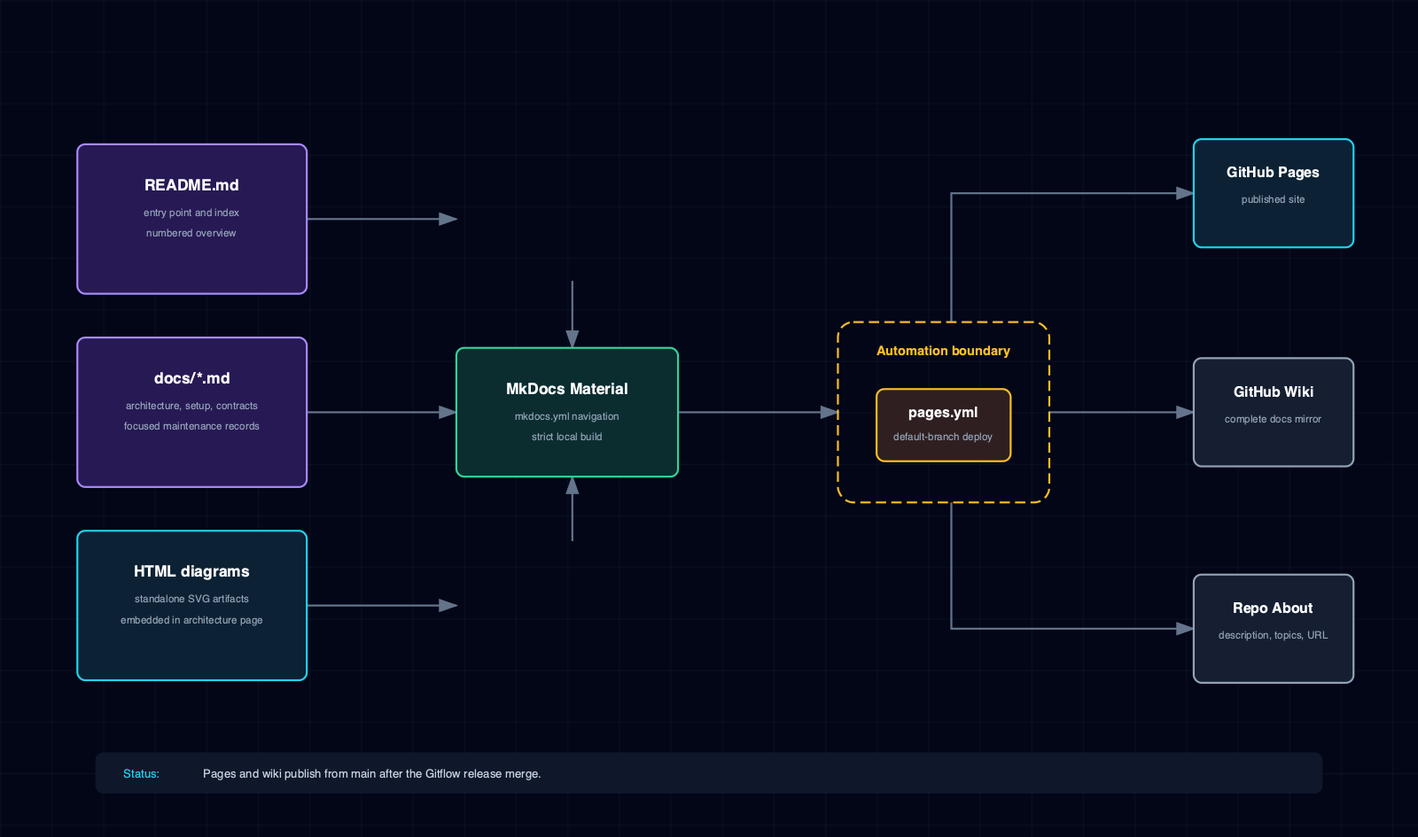
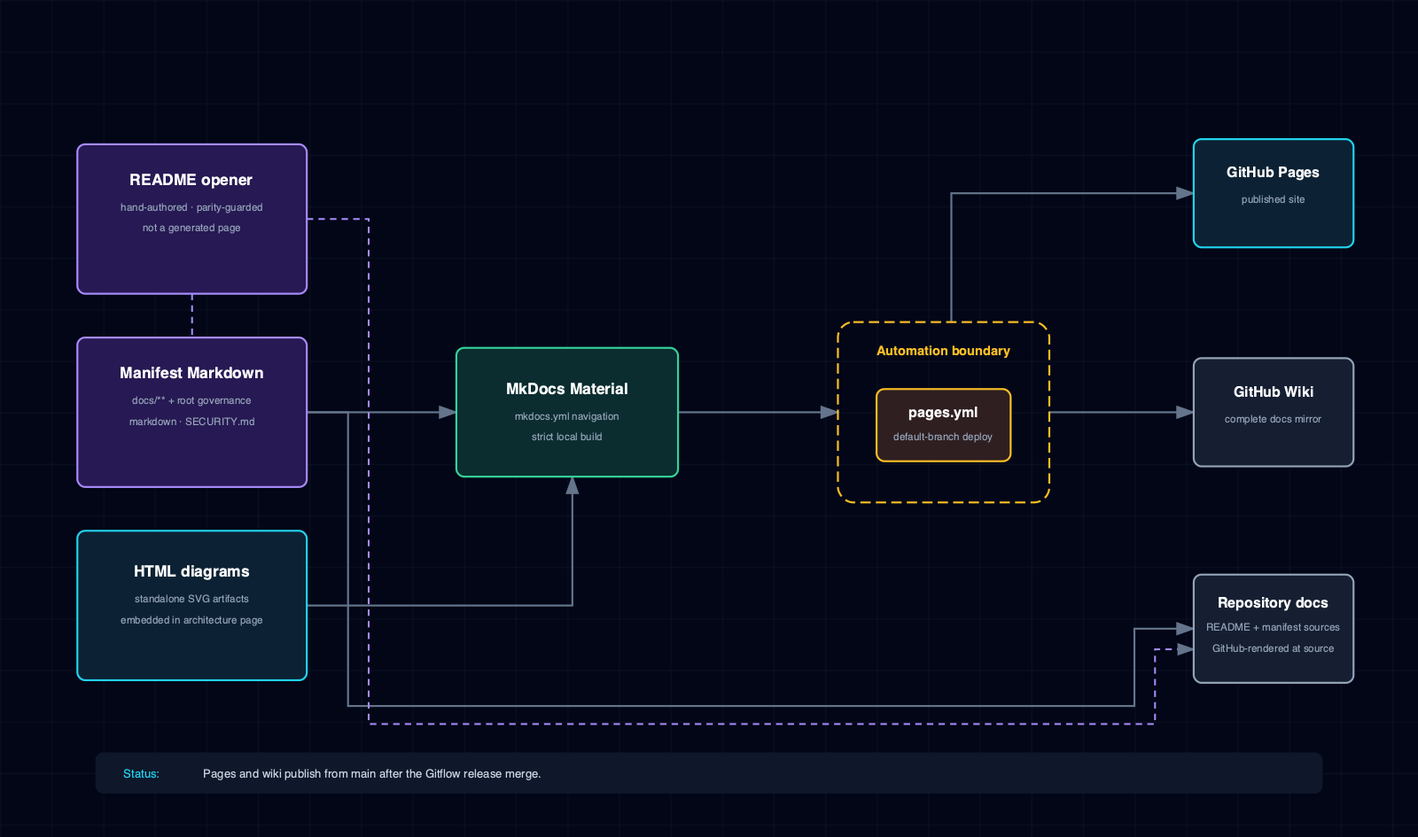
docs: align security policy architecture

diff --git a/docs/diagrams/ml-eng-lab-docs-sync.html b/docs/diagrams/ml-eng-lab-docs-sync.html
@@ -25,12 +25,12 @@
   <div class="wrap">
     <header>
       <h1>ml-eng-lab Documentation — Three-Surface Sync</h1>
-      <div class="subtitle">One canonical source tree feeds three self-contained surfaces; generated output is never edited by hand.</div>
+      <div class="subtitle">Manifest pages feed the site and wiki; repository Markdown renders at source.</div>
     </header>
     <div class="panel">
       <svg viewBox="0 0 1240 700" role="img" aria-labelledby="title desc">
         <title id="title">ml-eng-lab documentation three-surface sync</title>
-        <desc id="desc">Canonical docs and notebooks flow through the scripts/docs pipeline (render_diagrams, build_docs, check_docs gate, push_wiki, mkdocs build) into three self-contained surfaces: GitHub Pages, the native wiki, and repository markdown.</desc>
+        <desc id="desc">Manifest-declared Markdown, including direct-root governance pages, and notebook sources flow through the documentation pipeline into the site, wiki, and repository surfaces; the README opener remains hand-authored and parity-guarded.</desc>
         <defs>
           <pattern id="grid" width="40" height="40" patternUnits="userSpaceOnUse">
             <path d="M 40 0 L 0 0 0 40" fill="none" stroke="#1e293b" stroke-width="0.5"/>
@@ -59,10 +59,10 @@
         <path d="M 450 240 V 276" stroke="#64748b" stroke-width="1.5" marker-end="url(#arrowhead)"/>
         <!-- gate pass -> split to push_wiki + mkdocs -->
         <path d="M 450 352 V 392" stroke="#34d399" stroke-width="1.8" marker-end="url(#arrowpass)"/>
-        <text x="458" y="376" fill="#34d399" font-size="9">✓ pass</text>
+        <text x="458" y="376" fill="#34d399" font-size="9">pass</text>
         <!-- gate fail -> block PR -->
         <path d="M 588 312 H 640 V 264 H 700" stroke="#fb7185" stroke-width="1.8" fill="none" marker-end="url(#arrowfail)"/>
-        <text x="612" y="304" fill="#fb7185" font-size="9">✗ fail</text>
+        <text x="612" y="304" fill="#fb7185" font-size="9">fail</text>
         <!-- push_wiki -> mkdocs is not a flow; both run after gate. Link gate to mkdocs too via the pass line already drawn to push_wiki; add mkdocs feed -->
         <path d="M 576 420 H 600 V 504 H 576" stroke="#34d399" stroke-width="1.8" fill="none" marker-end="url(#arrowpass)"/>
         <!-- pipeline -> surfaces -->
@@ -70,9 +70,9 @@
         <text x="612" y="346" fill="#94a3b8" font-size="8">site/</text>
         <path d="M 576 448 H 624 V 252 H 656" stroke="#64748b" stroke-width="1.5" fill="none" marker-end="url(#arrowhead)"/>
         <text x="628" y="350" fill="#94a3b8" font-size="8">wiki</text>
-        <!-- repo surface = canonical docs/ directly (dashed, over the top) -->
+        <!-- repository surface = canonical Markdown directly (dashed, over the top) -->
         <path d="M 146 92 V 40 H 890 V 316 H 980" stroke="#a78bfa" stroke-width="1.4" fill="none" stroke-dasharray="5,4" marker-end="url(#arrowhead)"/>
-        <text x="500" y="34" fill="#a78bfa" font-size="8">canonical docs/ rendered directly by GitHub (no generation)</text>
+        <text x="500" y="34" fill="#a78bfa" font-size="8">canonical repository Markdown rendered directly by GitHub</text>
 
         <!-- ============ LEFT: canonical source ============ -->
         <rect x="30" y="68" width="220" height="500" rx="12" fill="none" stroke="#fbbf24" stroke-width="1.5" stroke-dasharray="8,4"/>
@@ -80,8 +80,9 @@
 
         <rect x="46" y="110" width="204" height="52" rx="6" fill="#0f172a"/>
         <rect x="46" y="110" width="204" height="52" rx="6" fill="rgba(76, 29, 149, 0.4)" stroke="#a78bfa" stroke-width="1.5"/>
-        <text x="148" y="131" fill="#fff" font-size="11" font-weight="600" text-anchor="middle">docs/</text>
-        <text x="148" y="148" fill="#94a3b8" font-size="8" text-anchor="middle">canonical markdown (index, architecture, …)</text>
+        <text x="148" y="127" fill="#fff" font-size="11" font-weight="600" text-anchor="middle">Manifest Markdown</text>
+        <text x="148" y="143" fill="#94a3b8" font-size="7" text-anchor="middle">docs/** + root governance</text>
+        <text x="148" y="156" fill="#94a3b8" font-size="7" text-anchor="middle">markdown · SECURITY.md</text>
 
         <rect x="46" y="182" width="204" height="52" rx="6" fill="#0f172a"/>
         <rect x="46" y="182" width="204" height="52" rx="6" fill="rgba(76, 29, 149, 0.4)" stroke="#a78bfa" stroke-width="1.5"/>
@@ -98,10 +99,16 @@
         <text x="148" y="347" fill="#fff" font-size="11" font-weight="600" text-anchor="middle">docs/diagrams/*.html</text>
         <text x="148" y="364" fill="#94a3b8" font-size="8" text-anchor="middle">diagram masters</text>
 
+        <rect x="46" y="398" width="204" height="60" rx="6" fill="#0f172a"/>
+        <rect x="46" y="398" width="204" height="60" rx="6" fill="rgba(76, 29, 149, 0.4)" stroke="#a78bfa" stroke-width="1.5"/>
+        <text x="148" y="419" fill="#fff" font-size="11" font-weight="600" text-anchor="middle">README opener</text>
+        <text x="148" y="437" fill="#94a3b8" font-size="8" text-anchor="middle">hand-authored · parity-guarded</text>
+        <text x="148" y="451" fill="#94a3b8" font-size="8" text-anchor="middle">not a generated page</text>
+
         <rect x="46" y="486" width="204" height="60" rx="6" fill="#0f172a"/>
         <rect x="46" y="486" width="204" height="60" rx="6" fill="rgba(30, 41, 59, 0.5)" stroke="#94a3b8" stroke-width="1"/>
-        <text x="148" y="510" fill="#cbd5e1" font-size="9" text-anchor="middle">single source of truth</text>
-        <text x="148" y="526" fill="#94a3b8" font-size="8" text-anchor="middle">edited by humans; everything else is derived</text>
+        <text x="148" y="510" fill="#cbd5e1" font-size="9" text-anchor="middle">one source per manifest page</text>
+        <text x="148" y="526" fill="#94a3b8" font-size="8" text-anchor="middle">site and wiki are derived</text>
 
         <!-- ============ MIDDLE: pipeline ============ -->
         <rect x="324" y="68" width="252" height="500" rx="12" fill="none" stroke="#34d399" stroke-width="1.5" stroke-dasharray="8,4"/>
@@ -110,16 +117,16 @@
         <rect x="336" y="110" width="228" height="54" rx="6" fill="#0f172a"/>
         <rect x="336" y="110" width="228" height="54" rx="6" fill="rgba(6, 78, 59, 0.4)" stroke="#34d399" stroke-width="1.5"/>
         <text x="450" y="131" fill="#fff" font-size="11" font-weight="600" text-anchor="middle">render_diagrams.py</text>
-        <text x="450" y="149" fill="#94a3b8" font-size="8" text-anchor="middle">master → SVG (site) + PNG (repo, wiki)</text>
+        <text x="450" y="149" fill="#94a3b8" font-size="8" text-anchor="middle">master to SVG (site) + PNG (repo, wiki)</text>
 
         <rect x="336" y="186" width="228" height="54" rx="6" fill="#0f172a"/>
         <rect x="336" y="186" width="228" height="54" rx="6" fill="rgba(6, 78, 59, 0.4)" stroke="#34d399" stroke-width="1.5"/>
         <text x="450" y="207" fill="#fff" font-size="11" font-weight="600" text-anchor="middle">build_docs.py --site --wiki</text>
-        <text x="450" y="225" fill="#94a3b8" font-size="8" text-anchor="middle">→ generated/site, generated/wiki</text>
+        <text x="450" y="225" fill="#94a3b8" font-size="8" text-anchor="middle">writes generated/site, generated/wiki</text>
 
         <rect x="336" y="276" width="228" height="76" rx="6" fill="#0f172a"/>
         <rect x="336" y="276" width="228" height="76" rx="6" fill="rgba(120, 53, 15, 0.32)" stroke="#fbbf24" stroke-width="1.5"/>
-        <text x="450" y="297" fill="#fff" font-size="11" font-weight="600" text-anchor="middle">check_docs.py  ◇ GATE</text>
+        <text x="450" y="297" fill="#fff" font-size="11" font-weight="600" text-anchor="middle">check_docs.py | GATE</text>
         <text x="450" y="315" fill="#94a3b8" font-size="8" text-anchor="middle">self-containment · completeness</text>
         <text x="450" y="329" fill="#94a3b8" font-size="8" text-anchor="middle">placeholders · determinism</text>
         <text x="450" y="345" fill="#fbbf24" font-size="8" text-anchor="middle">CI fails the PR on any error</text>
@@ -127,17 +134,17 @@
         <rect x="336" y="392" width="228" height="56" rx="6" fill="#0f172a"/>
         <rect x="336" y="392" width="228" height="56" rx="6" fill="rgba(6, 78, 59, 0.4)" stroke="#34d399" stroke-width="1.5"/>
         <text x="450" y="413" fill="#fff" font-size="11" font-weight="600" text-anchor="middle">push_wiki.py --push</text>
-        <text x="450" y="431" fill="#94a3b8" font-size="8" text-anchor="middle">Deploy Key → wiki.git</text>
+        <text x="450" y="431" fill="#94a3b8" font-size="8" text-anchor="middle">Deploy Key to wiki.git</text>
 
         <rect x="336" y="476" width="228" height="56" rx="6" fill="#0f172a"/>
         <rect x="336" y="476" width="228" height="56" rx="6" fill="rgba(6, 78, 59, 0.4)" stroke="#34d399" stroke-width="1.5"/>
         <text x="450" y="497" fill="#fff" font-size="11" font-weight="600" text-anchor="middle">mkdocs build --strict</text>
-        <text x="450" y="515" fill="#94a3b8" font-size="8" text-anchor="middle">generated/site → site/</text>
+        <text x="450" y="515" fill="#94a3b8" font-size="8" text-anchor="middle">generated/site to site/</text>
 
         <!-- block PR (rose) -->
         <rect x="700" y="248" width="104" height="34" rx="6" fill="#0f172a"/>
         <rect x="700" y="248" width="104" height="34" rx="6" fill="rgba(136, 19, 55, 0.4)" stroke="#fb7185" stroke-width="1.5"/>
-        <text x="752" y="269" fill="#fff" font-size="10" font-weight="600" text-anchor="middle">✗ block PR</text>
+        <text x="752" y="269" fill="#fff" font-size="10" font-weight="600" text-anchor="middle">block PR</text>
 
         <!-- ============ RIGHT: three surfaces ============ -->
         <rect x="656" y="68" width="556" height="500" rx="12" fill="none" stroke="#22d3ee" stroke-width="1.5" stroke-dasharray="8,4"/>
@@ -146,21 +153,21 @@
         <rect x="980" y="316" width="218" height="76" rx="6" fill="#0f172a"/>
         <rect x="980" y="316" width="218" height="76" rx="6" fill="rgba(8, 51, 68, 0.4)" stroke="#22d3ee" stroke-width="1.5"/>
         <text x="1089" y="338" fill="#fff" font-size="11" font-weight="600" text-anchor="middle">Repository markdown</text>
-        <text x="1089" y="356" fill="#94a3b8" font-size="8" text-anchor="middle">docs/ — GitHub-rendered</text>
+        <text x="1089" y="356" fill="#94a3b8" font-size="8" text-anchor="middle">docs/** + SECURITY.md + README</text>
         <text x="1089" y="370" fill="#94a3b8" font-size="8" text-anchor="middle">embeds PNG (committed)</text>
         <text x="1089" y="384" fill="#22d3ee" font-size="8" text-anchor="middle">= canonical, no generation</text>
 
         <rect x="672" y="112" width="240" height="76" rx="6" fill="#0f172a"/>
         <rect x="672" y="112" width="240" height="76" rx="6" fill="rgba(8, 51, 68, 0.4)" stroke="#22d3ee" stroke-width="1.5"/>
         <text x="792" y="134" fill="#fff" font-size="11" font-weight="600" text-anchor="middle">GitHub Pages (.io)</text>
-        <text x="792" y="152" fill="#94a3b8" font-size="8" text-anchor="middle">site/ ← mkdocs build</text>
+        <text x="792" y="152" fill="#94a3b8" font-size="8" text-anchor="middle">site/ from mkdocs build</text>
         <text x="792" y="166" fill="#94a3b8" font-size="8" text-anchor="middle">thekaveh.github.io/ml-eng-lab</text>
         <text x="792" y="180" fill="#22d3ee" font-size="8" text-anchor="middle">embeds SVG (crisp)</text>
 
         <rect x="672" y="216" width="240" height="76" rx="6" fill="#0f172a"/>
         <rect x="672" y="216" width="240" height="76" rx="6" fill="rgba(8, 51, 68, 0.4)" stroke="#22d3ee" stroke-width="1.5"/>
         <text x="792" y="238" fill="#fff" font-size="11" font-weight="600" text-anchor="middle">ml-eng-lab.wiki.git</text>
-        <text x="792" y="256" fill="#94a3b8" font-size="8" text-anchor="middle">generated/wiki ← push_wiki</text>
+        <text x="792" y="256" fill="#94a3b8" font-size="8" text-anchor="middle">generated/wiki from push_wiki</text>
         <text x="792" y="270" fill="#94a3b8" font-size="8" text-anchor="middle">native GitHub wiki</text>
         <text x="792" y="284" fill="#22d3ee" font-size="8" text-anchor="middle">embeds PNG</text>
 
@@ -186,8 +193,8 @@
       <div class="card">
         <h2>One canonical source</h2>
         <ul>
-          <li>`docs/`, `notebooks/&lt;task&gt;/`, `manifest.yaml`, diagram masters.</li>
-          <li>Humans edit only these; everything else is derived.</li>
+          <li>Manifest Markdown includes `docs/**` and root governance pages such as `SECURITY.md`.</li>
+          <li>The README opener is parity-guarded but not a generated page.</li>
         </ul>
       </div>
       <div class="card">

diff --git a/docs/diagrams/ml-eng-lab-docs-publishing.html b/docs/diagrams/ml-eng-lab-docs-publishing.html
@@ -24,12 +24,12 @@
   <div class="wrap">
     <header>
       <h1>ml-eng-lab Documentation Publishing</h1>
-      <div class="subtitle">Canonical repository docs, generated site, complete wiki mirror, and repository metadata.</div>
+      <div class="subtitle">Manifest pages publish to the site and wiki; repository Markdown renders at source.</div>
     </header>
     <div class="panel">
       <svg viewBox="0 0 1100 650" role="img" aria-labelledby="title desc">
         <title id="title">Documentation publishing flow</title>
-        <desc id="desc">Diagram showing README, docs, diagrams, MkDocs build, GitHub Actions, GitHub Pages, wiki, and repository About metadata.</desc>
+        <desc id="desc">Diagram showing the hand-authored README opener, manifest-declared Markdown including the root security policy, diagram masters, the build pipeline, and three documentation surfaces.</desc>
         <defs>
           <pattern id="grid" width="40" height="40" patternUnits="userSpaceOnUse"><path d="M 40 0 L 0 0 0 40" fill="none" stroke="#1e293b" stroke-width="0.5"/></pattern>
           <marker id="arrowhead" markerWidth="10" markerHeight="7" refX="9" refY="3.5" orient="auto"><polygon points="0 0, 10 3.5, 0 7" fill="#64748b"/></marker>
@@ -37,27 +37,26 @@
         <rect width="1100" height="650" fill="#020617"/>
         <rect width="1100" height="650" fill="url(#grid)"/>
 
-        <path d="M 238 170 H 354" stroke="#64748b" stroke-width="1.5" marker-end="url(#arrowhead)"/>
+        <path d="M 149 228 V 262" stroke="#a78bfa" stroke-width="1.4" stroke-dasharray="5,4"/>
         <path d="M 238 320 H 354" stroke="#64748b" stroke-width="1.5" marker-end="url(#arrowhead)"/>
-        <path d="M 238 470 H 354" stroke="#64748b" stroke-width="1.5" marker-end="url(#arrowhead)"/>
+        <path d="M 238 470 H 444 V 370" stroke="#64748b" stroke-width="1.5" fill="none" marker-end="url(#arrowhead)"/>
         <path d="M 526 320 H 650" stroke="#64748b" stroke-width="1.5" marker-end="url(#arrowhead)"/>
         <path d="M 814 320 H 926" stroke="#64748b" stroke-width="1.5" marker-end="url(#arrowhead)"/>
-        <path d="M 444 218 V 270" stroke="#64748b" stroke-width="1.5" marker-end="url(#arrowhead)"/>
-        <path d="M 444 420 V 370" stroke="#64748b" stroke-width="1.5" marker-end="url(#arrowhead)"/>
-        <path d="M 738 390 V 488 H 926" stroke="#64748b" stroke-width="1.5" fill="none" marker-end="url(#arrowhead)"/>
+        <path d="M 238 320 H 270 V 548 H 880 V 488 H 926" stroke="#64748b" stroke-width="1.5" fill="none" marker-end="url(#arrowhead)"/>
+        <path d="M 238 170 H 286 V 562 H 896 V 504 H 926" stroke="#a78bfa" stroke-width="1.4" fill="none" stroke-dasharray="5,4" marker-end="url(#arrowhead)"/>
         <path d="M 738 250 V 150 H 926" stroke="#64748b" stroke-width="1.5" fill="none" marker-end="url(#arrowhead)"/>
 
         <rect x="60" y="112" width="178" height="116" rx="6" fill="#0f172a"/>
         <rect x="60" y="112" width="178" height="116" rx="6" fill="rgba(76, 29, 149, 0.4)" stroke="#a78bfa" stroke-width="1.5"/>
-        <text x="149" y="148" fill="#fff" font-size="12" font-weight="600" text-anchor="middle">README.md</text>
-        <text x="149" y="168" fill="#94a3b8" font-size="8" text-anchor="middle">entry point and index</text>
-        <text x="149" y="184" fill="#94a3b8" font-size="8" text-anchor="middle">numbered overview</text>
+        <text x="149" y="144" fill="#fff" font-size="12" font-weight="600" text-anchor="middle">README opener</text>
+        <text x="149" y="164" fill="#94a3b8" font-size="8" text-anchor="middle">hand-authored · parity-guarded</text>
+        <text x="149" y="180" fill="#94a3b8" font-size="8" text-anchor="middle">not a generated page</text>
 
         <rect x="60" y="262" width="178" height="116" rx="6" fill="#0f172a"/>
         <rect x="60" y="262" width="178" height="116" rx="6" fill="rgba(76, 29, 149, 0.4)" stroke="#a78bfa" stroke-width="1.5"/>
-        <text x="149" y="298" fill="#fff" font-size="12" font-weight="600" text-anchor="middle">docs/*.md</text>
-        <text x="149" y="318" fill="#94a3b8" font-size="8" text-anchor="middle">architecture, setup, contracts</text>
-        <text x="149" y="334" fill="#94a3b8" font-size="8" text-anchor="middle">focused maintenance records</text>
+        <text x="149" y="294" fill="#fff" font-size="12" font-weight="600" text-anchor="middle">Manifest Markdown</text>
+        <text x="149" y="314" fill="#94a3b8" font-size="8" text-anchor="middle">docs/** + root governance</text>
+        <text x="149" y="330" fill="#94a3b8" font-size="8" text-anchor="middle">markdown · SECURITY.md</text>
 
         <rect x="60" y="412" width="178" height="116" rx="6" fill="#0f172a"/>
         <rect x="60" y="412" width="178" height="116" rx="6" fill="rgba(8, 51, 68, 0.4)" stroke="#22d3ee" stroke-width="1.5"/>
@@ -90,8 +89,9 @@
 
         <rect x="926" y="446" width="124" height="84" rx="6" fill="#0f172a"/>
         <rect x="926" y="446" width="124" height="84" rx="6" fill="rgba(30, 41, 59, 0.5)" stroke="#94a3b8" stroke-width="1.5"/>
-        <text x="988" y="476" fill="#fff" font-size="11" font-weight="600" text-anchor="middle">Repo About</text>
-        <text x="988" y="496" fill="#94a3b8" font-size="8" text-anchor="middle">description, topics, URL</text>
+        <text x="988" y="472" fill="#fff" font-size="11" font-weight="600" text-anchor="middle">Repository docs</text>
+        <text x="988" y="490" fill="#94a3b8" font-size="8" text-anchor="middle">README + manifest sources</text>
+        <text x="988" y="506" fill="#94a3b8" font-size="8" text-anchor="middle">GitHub-rendered at source</text>
 
         <rect x="74" y="584" width="952" height="32" rx="6" fill="#0f172a"/>
         <text x="96" y="604" fill="#22d3ee" font-size="9">Status:</text>
@@ -99,9 +99,9 @@
       </svg>
     </div>
     <section class="cards" aria-label="Publishing summary">
-      <div class="card"><h2>Source</h2><ul><li>README and `docs/` are the canonical in-repo documentation.</li><li>Diagrams are checked-in HTML/SVG artifacts.</li></ul></div>
+      <div class="card"><h2>Source</h2><ul><li>Manifest Markdown spans `docs/**` and root governance pages such as `SECURITY.md`.</li><li>The README opener is hand-authored, parity-guarded, and not generated.</li></ul></div>
       <div class="card"><h2>Build</h2><ul><li>MkDocs builds the site in strict mode.</li><li>The Pages workflow deploys the checked main-branch commit.</li></ul></div>
-      <div class="card"><h2>Surfaces</h2><ul><li>The wiki receives the same canonical page set.</li><li>Repository About metadata tracks current project identity.</li></ul></div>
+      <div class="card"><h2>Surfaces</h2><ul><li>The site and wiki receive the same manifest page set.</li><li>Repository Markdown renders canonical files directly.</li></ul></div>
     </section>
     <footer>Generated for ml-eng-lab maintenance, 2026-07-04.</footer>
   </div>

diff --git a/tests/test_render_diagrams.py b/tests/test_render_diagrams.py
@@ -1,6 +1,10 @@
 # tests/test_render_diagrams.py
 from __future__ import annotations
 
+import html
+import re
+from pathlib import Path
+
 import pytest
 
 cairosvg = pytest.importorskip("cairosvg")  # skips the whole module if cairosvg absent
@@ -10,6 +14,15 @@ from scripts.docs.manifest import parse_manifest  # noqa: E402
 
 SVG = '<svg xmlns="http://www.w3.org/2000/svg" viewBox="0 0 100 50"><rect width="100" height="50" fill="#00e5ff"/></svg>'
 HTML = f"<html><body>{SVG}</body></html>"
+REPO_ROOT = Path(__file__).resolve().parents[1]
+
+
+def _visible_svg_text(master: Path) -> str:
+    source = master.read_text(encoding="utf-8")
+    return " ".join(
+        html.unescape(re.sub(r"<[^>]+>", "", value)).strip()
+        for value in re.findall(r"<text\b[^>]*>(.*?)</text>", source, flags=re.DOTALL)
+    )
 
 
 def test_extract_svg_pulls_inline_svg():
@@ -50,3 +63,36 @@ diagrams:
     assert (site_img / "system.svg").exists()
     assert (png_dir / "system.png").exists()
     assert written == [tmp_path / "docs/diagrams/ml-eng-lab-system.html"]
+
+
+def test_documentation_architecture_describes_root_governance_and_readme_boundary():
+    for relative_path in ("docs/index.md", "docs/architecture.md"):
+        content = (REPO_ROOT / relative_path).read_text(encoding="utf-8")
+        assert "manifest-declared canonical source set" in content
+        assert "`SECURITY.md`" in content
+        assert "`README.md`" in content
+        assert "parity-guarded" in content
+        assert "not a manifest-generated page" in content
+
+
+def test_documentation_pipeline_masters_show_root_governance_and_readme_boundary():
+    for filename in (
+        "ml-eng-lab-docs-publishing.html",
+        "ml-eng-lab-docs-sync.html",
+    ):
+        visible_text = _visible_svg_text(REPO_ROOT / "docs/diagrams" / filename)
+        assert "SECURITY.md" in visible_text
+        assert "root governance markdown" in visible_text
+        assert "README opener" in visible_text
+        assert "parity-guarded" in visible_text
+        assert "not a generated page" in visible_text
+
+
+def test_documentation_pipeline_masters_avoid_unsupported_status_glyphs():
+    unsupported_glyphs = set("→←◇✓✗")
+    for filename in (
+        "ml-eng-lab-docs-publishing.html",
+        "ml-eng-lab-docs-sync.html",
+    ):
+        visible_text = _visible_svg_text(REPO_ROOT / "docs/diagrams" / filename)
+        assert unsupported_glyphs.isdisjoint(visible_text)

diff --git a/docs/architecture.md b/docs/architecture.md
@@ -3,7 +3,8 @@
 This page describes the repository as a notebook-driven ML lab rather than as a deployable
 service. The primary runtime objects are experiment directories under `notebooks/`, the notebook
 execution tiers owned by the `Makefile`, the validation scripts under `scripts/`, and the three
-documentation surfaces derived from the canonical `docs/` tree.
+documentation surfaces derived from the manifest-declared canonical source set. That set spans
+the documentation tree under `docs/` and direct-root governance Markdown such as `SECURITY.md`.
 
 ## 2.1.1 System architecture
 
@@ -22,11 +23,12 @@ upstream dependencies.
 ![Documentation publishing flow](diagrams/img/docs-publishing.png)
 
 The documentation system is the cleanest worked example of the lab's "canonical source +
-derived surface" discipline. One source tree feeds three surfaces:
+derived surface" discipline. One manifest-declared canonical source set feeds three surfaces:
 
-1. **Manifest.** `docs/manifest.yaml` declares the hierarchy, numbering, notebook specs, and
-   diagram masters. It is the single source of truth for the page set — if a page is not in the
-   manifest, it does not appear in the generated site or wiki.
+1. **Manifest.** `docs/manifest.yaml` declares the hierarchy, numbering, notebook specs, diagram
+   masters, Markdown under `docs/`, and direct-root governance pages such as `SECURITY.md`. It is
+   the single source of truth for the generated page set — if a page is not in the manifest, it
+   does not appear in the generated site or wiki.
 2. **Site generation.** `scripts/docs/build_docs.py --site` reads the manifest, applies the
    per-surface transforms in `scripts/docs/transforms.py` (forbidden-link stripping,
    path rewriting, image-asset rewriting), and writes `generated/site/` plus a generated
@@ -47,6 +49,10 @@ every surface: relative canonical paths are rewritten to per-surface output path
 references are rewritten to the surface-appropriate asset format, and any link that would cross
 a surface boundary (a site page linking to a GitHub source view, for example) is stripped to
 bare text.
+
+The root `README.md` opener is hand-authored and parity-guarded against `docs/index.md`;
+it is not a manifest-generated page. The repository renders both that opener and the canonical
+manifest sources directly, while the site and wiki contain only manifest-projected pages.
 
 ## 2.1.3 Runtime entry paths
 
@@ -71,5 +77,5 @@ and public notebook surfaces before changes are merged.
   `torchao>=0.17`.
 - `infra/` is a reviewed Atlas gitlink. Consumer configuration remains outside the submodule, and
   host-native Ollama is mandatory; a containerized Ollama service is not an approved runtime.
-- The canonical `docs/` tree is the only documentation source of truth; the generated site and
-  wiki are never edited by hand.
+- The manifest-declared canonical source set under `docs/` and at approved root governance paths
+  is the documentation source of truth; the generated site and wiki are never edited by hand.

diff --git a/docs/index.md b/docs/index.md
@@ -51,28 +51,32 @@ without hiding operational assumptions inside notebooks.
   renderers, checker).
 - `Makefile` owns notebook execution tiers and local validation targets.
 - `infra/` pins Atlas; its `ml-eng` JupyterHub runtime is the default remote notebook kernel.
-- `docs/` holds the canonical documentation sources plus maintenance logs and findings.
+- `docs/` holds the documentation-tree portion of the manifest-declared canonical source set;
+  root governance Markdown such as `SECURITY.md` completes that set.
 - `.github/workflows/` contains CI and documentation publishing workflows.
 
 The root `README.md` is the day-to-day entry point for contributors — it carries the task index,
-quick-start paths, and the standard make targets. This documentation collection is the focused
-reference surface that complements the README.
+quick-start paths, and the standard make targets. Its opener is hand-authored and parity-guarded
+against this landing page; it is not a manifest-generated page. This documentation collection is
+the focused reference surface that complements the README.
 
 ## 1.2 Documentation surfaces
 
-The lab maintains three synchronized documentation surfaces, all derived from one canonical
-source tree so the three never drift:
+The lab maintains three synchronized documentation surfaces from a manifest-declared canonical
+source set so the three never drift. That set includes Markdown under `docs/` and direct-root
+governance Markdown such as `SECURITY.md`:
 
 | Surface | Source | Rendered by | Audience |
 |---|---|---|---|
-| **Repository** | `docs/*.md` (checked in) | GitHub markdown rendering | Contributors browsing the repo |
+| **Repository** | Manifest sources under `docs/` plus root governance Markdown | GitHub markdown rendering | Contributors browsing the repo |
 | **Site** | `generated/site/` | MkDocs Material (`mkdocs build`) | Public readers of the published site |
 | **Wiki** | `generated/wiki/` | GitHub wiki rendering | Readers who prefer the wiki navigation |
 
 The manifest at `docs/manifest.yaml` is the single source of truth for the hierarchy, numbering,
 and page set. `scripts/docs/build_docs.py` consumes the manifest and emits both generated
 surfaces; `scripts/docs/check_docs.py` gates CI on self-containment, completeness, placeholders,
-and determinism. The canonical sources are written once; every surface is a transform of them.
+and determinism. Each manifest page is written once; the site and wiki are transforms of that
+source, while the repository renders the source directly.
 
 ## 1.3 Recommended reading path
 
